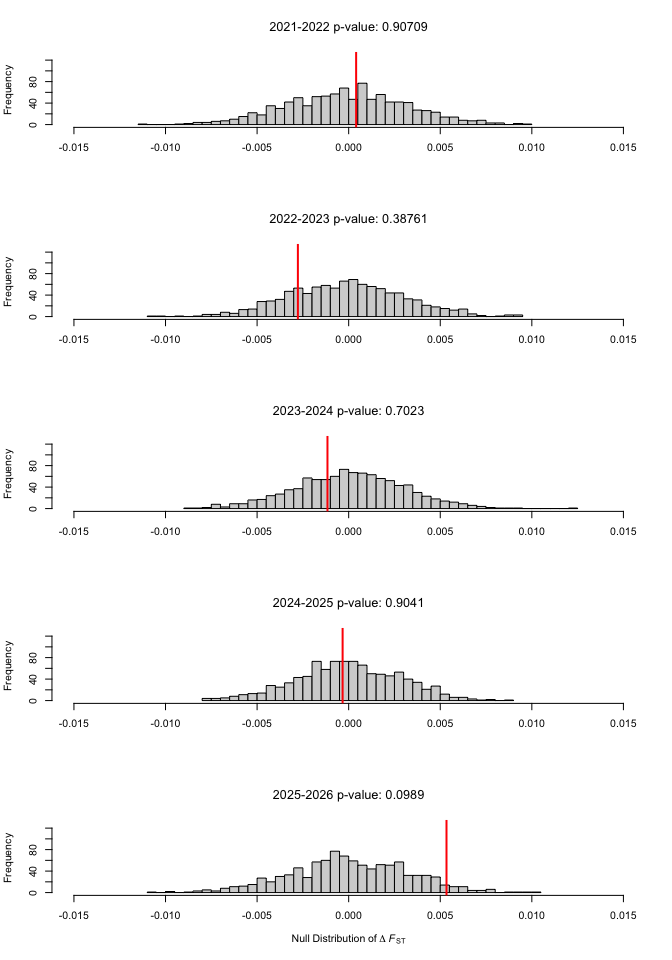
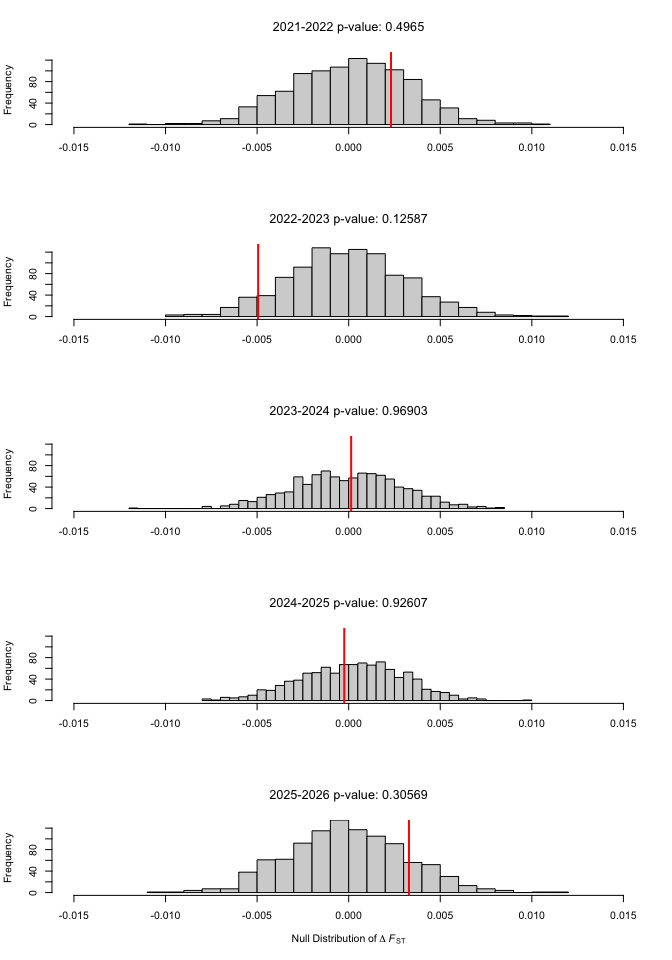
md

diff --git a/delta-fst-white-gro.md b/delta-fst-white-gro.md
@@ -65,3 +65,8 @@ other words, there is no evidence for hybridization w/ introgression
 during the study period.
 
 ![](delta-fst-white-gro_files/figure-gfm/unnamed-chunk-5-1.png)<!-- -->
+
+More work is needed to establish standards for comparison. Furthermore,
+additional baseline data from recently-collected NOR fall run fish from
+the Puyallup River and White River would improve the quality of this
+analsysis.
